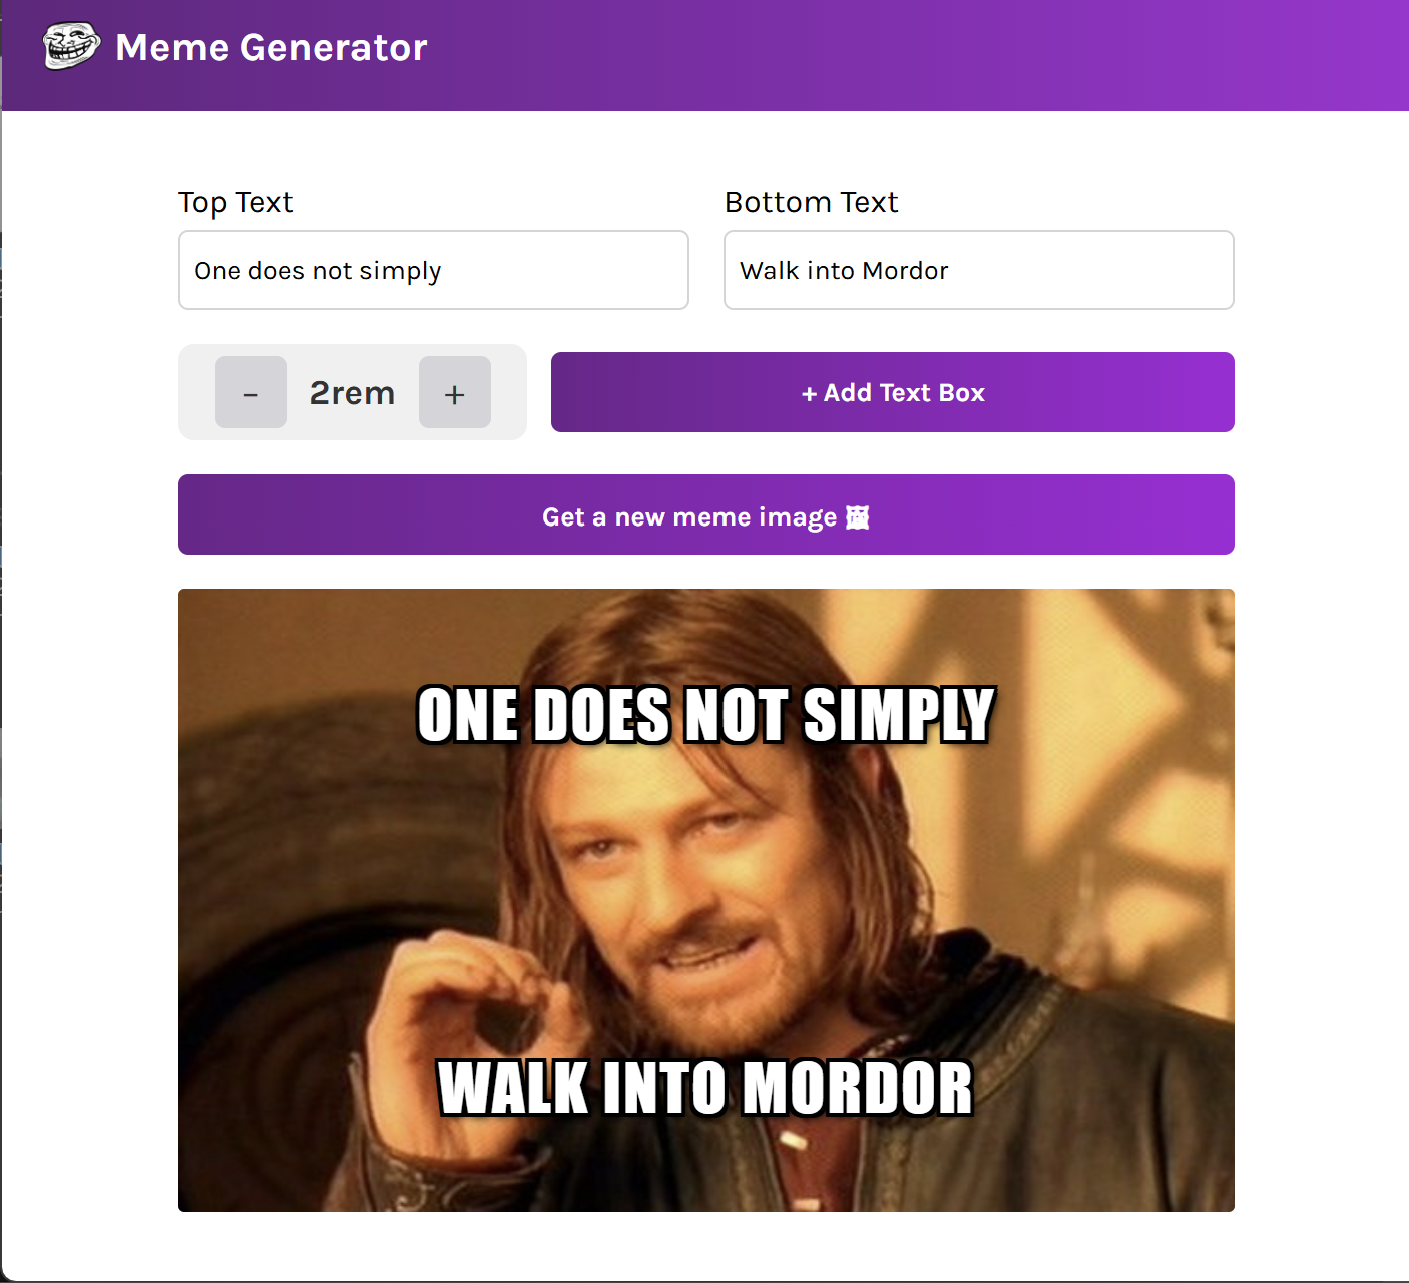
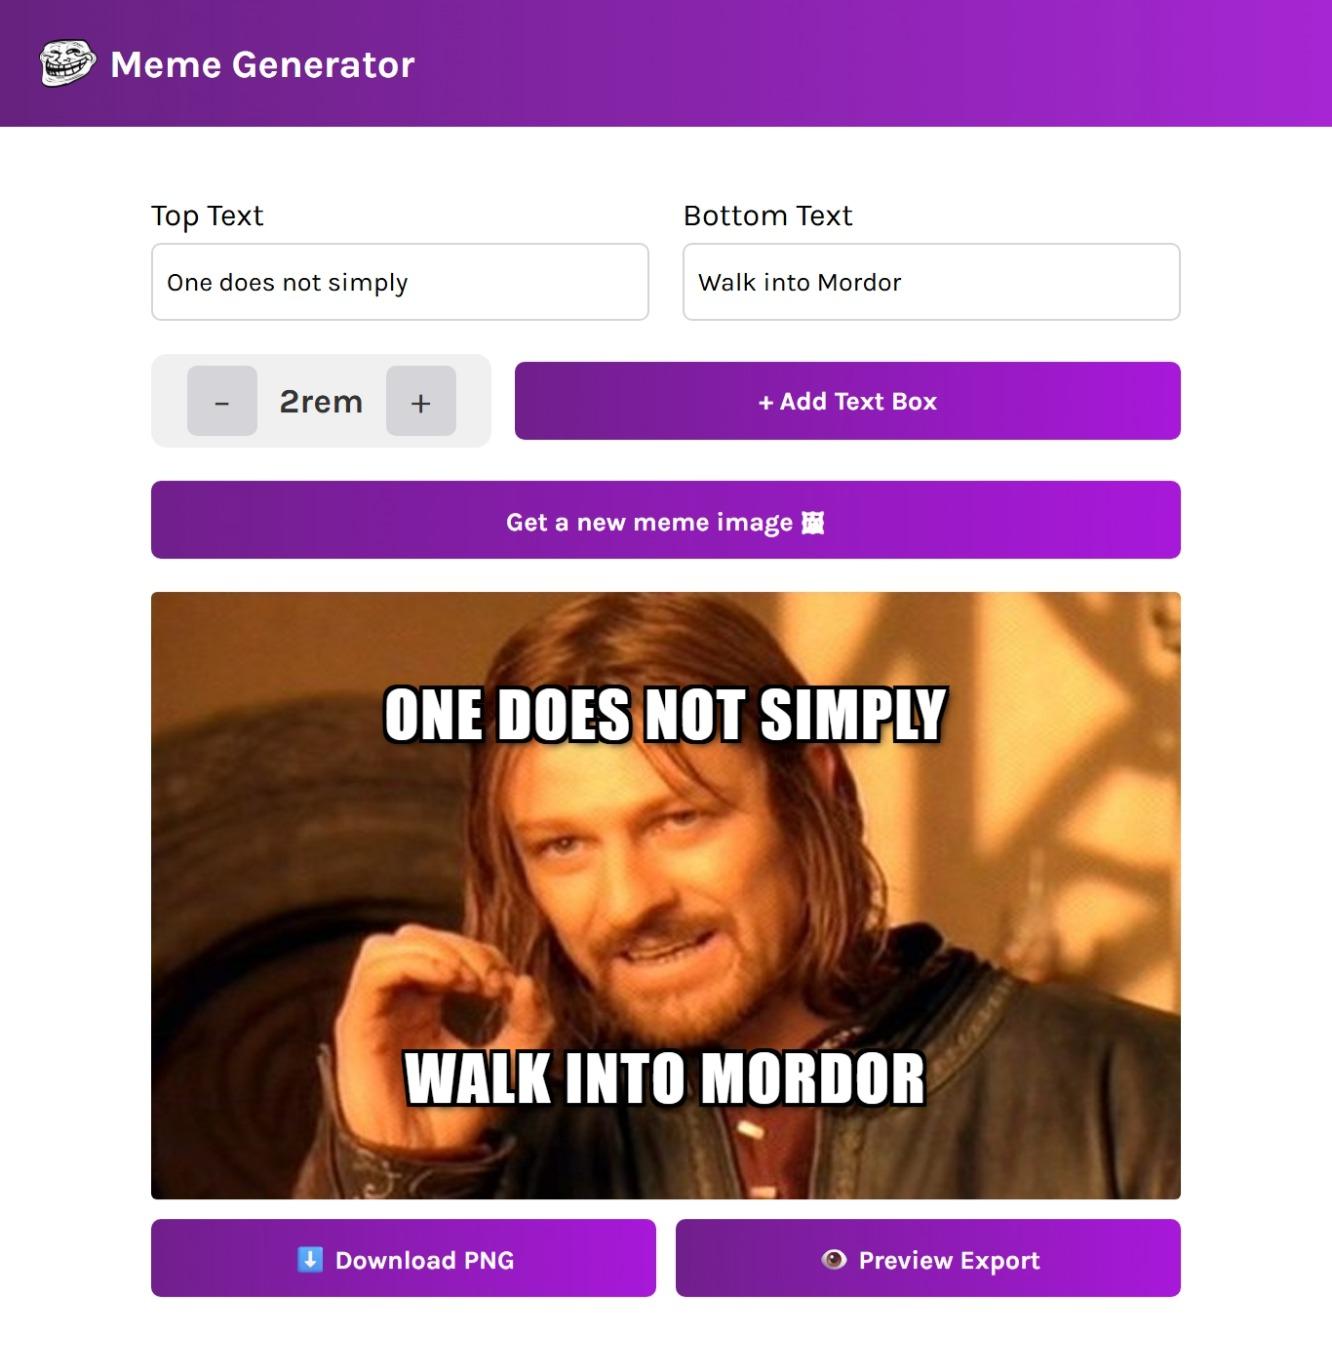
feat: add image export preview and update README documentation - Download: Save your created meme as a PNG image file - Preview Export: Open the exported meme in a new browser tab before downloading
Also updates README documentation to reflect these new features.

diff --git a/components/Main.jsx b/components/Main.jsx
@@ -232,6 +232,172 @@ export default function Main() {
             } 
         }
     }
+        
+    async function loadAndDrawImage(imageUrl, container, drawCallback) {
+        // 1. 下载图片
+        const response = await fetch(imageUrl)
+        const blob = await response.blob()
+        
+        // 2. 创建图片对象
+        const img = new Image()
+        const objectUrl = URL.createObjectURL(blob)
+        
+        return new Promise((resolve, reject) => {
+            img.onload = () => {
+                try {
+                    // 3. 获取容器尺寸
+                    const rect = container.getBoundingClientRect()
+                    
+                    // 4. 创建画布
+                    const canvas = document.createElement('canvas')
+                    const scaleFactor = 2
+                    canvas.width = rect.width * scaleFactor
+                    canvas.height = rect.height * scaleFactor
+                    
+                    const ctx = canvas.getContext('2d')
+                    ctx.scale(scaleFactor, scaleFactor)
+                    
+                    // 5. 绘制图片
+                    ctx.drawImage(img, 0, 0, rect.width, rect.height)
+                    
+                    // 6. 绘制文字
+                    drawTexts(ctx, rect)
+                    
+                    // 7. 清理临时链接
+                    URL.revokeObjectURL(objectUrl)
+                    
+                    // 8. 执行回调，传入画布
+                    resolve({ canvas, ctx, rect })
+                } catch (error) {
+                    reject(error)
+                }
+            }
+            
+            img.onerror = () => {
+                URL.revokeObjectURL(objectUrl)
+                reject(new Error('Failed to load image'))
+            }
+            
+            img.src = objectUrl
+        })
+    }
+
+    function downloadCanvas(canvas, filename = 'image.png') {
+        // Create a temporary anchor element
+        const link = document.createElement('a')
+        link.download = filename
+        
+        // Convert canvas to data URL
+        link.href = canvas.toDataURL('image/png')
+        
+        // Trigger download
+        document.body.appendChild(link)
+        link.click()
+        document.body.removeChild(link)
+    }
+    
+    // 导出为 DataURL（在新窗口预览）
+    async function exportAsDataURL() {
+        const memeElement = memeRef.current
+        if (!memeElement) return
+
+        try {
+            const { canvas } = await loadAndDrawImage(meme.imageUrl, memeElement)
+            
+            // 导出为 dataURL
+            const dataURL = canvas.toDataURL('image/png')
+            
+            // 在新窗口预览
+            const win = window.open()
+            if (win) {
+                win.document.write(`<img src="${dataURL}" alt="Exported Meme" style="max-width: 100%;" />`)
+                win.document.title = 'Exported Meme'
+            }
+        } catch (error) {
+            console.error('Export error:', error)
+            alert('Failed to preview meme. Please try again.')
+        }
+    }
+
+    // Export as  PNG（下载文件）
+    async function exportAsPNG() {
+        const memeElement = memeRef.current
+        if (!memeElement) return
+
+        try {
+            const { canvas } = await loadAndDrawImage(meme.imageUrl, memeElement)
+            
+            // 下载
+            downloadCanvas(canvas, 'meme.png')
+        } catch (error) {
+            console.error('Export error:', error)
+            alert('Failed to export meme. Please try again.')
+        }
+    }
+
+    function drawTexts(ctx, rect) {
+        function drawTextWithShadow(text, x, y, fontSize, color = 'white') {
+            ctx.textAlign = 'center';
+            ctx.textBaseline = 'middle';
+            ctx.font = `${fontSize * 16}px impact, sans-serif`;
+
+            // matches .draggable's letter-spacing: 1px (if supported by the browser)
+            if ('letterSpacing' in ctx) {
+                ctx.letterSpacing = '1px';
+            }
+
+            // Matches CSS text-shadow exactly, in the same order:
+            // 2px 2px 0, -2px -2px 0, 2px -2px 0, -2px 2px 0,
+            // 0 2px 0, 2px 0 0, 0 -2px 0, -2px 0 0, 2px 2px 5px
+            const shadows = [
+                [2, 2, 0], [-2, -2, 0], [2, -2, 0], [-2, 2, 0],
+                [0, 2, 0], [2, 0, 0], [0, -2, 0], [-2, 0, 0],
+                [2, 2, 5], // final blurred layer, drawn on top like in CSS
+            ];
+
+            ctx.shadowColor = 'black';
+            shadows.forEach(([offsetX, offsetY, blur]) => {
+                ctx.shadowOffsetX = offsetX;
+                ctx.shadowOffsetY = offsetY;
+                ctx.shadowBlur = blur;
+                ctx.fillStyle = 'black';
+                ctx.fillText(text, x, y);
+            });
+
+            // reset shadow state before drawing the actual fill text
+            ctx.shadowColor = 'transparent';
+            ctx.shadowOffsetX = 0;
+            ctx.shadowOffsetY = 0;
+            ctx.shadowBlur = 0;
+
+            ctx.fillStyle = color;
+            ctx.fillText(text, x, y);
+        }
+
+        drawTextWithShadow(
+            meme.topText.toUpperCase(),
+            (meme.topTextX / 100) * rect.width,
+            (meme.topTextY / 100) * rect.height,
+            meme.fontSize
+        );
+
+        drawTextWithShadow(
+            meme.bottomText.toUpperCase(),
+            (meme.bottomTextX / 100) * rect.width,
+            (meme.bottomTextY / 100) * rect.height,
+            meme.fontSize
+        );
+
+        customTexts.forEach(customText => {
+            drawTextWithShadow(
+                customText.text.toUpperCase(),
+                (customText.x / 100) * rect.width,
+                (customText.y / 100) * rect.height,
+                customText.fontSize || meme.fontSize
+            );
+        });
+    }
+
 
     if (error) return <main><p className="error">Failed to load memes: {error}</p></main>
     if (loading) return <main><p className="loading">Loading...</p></main>
@@ -382,6 +548,15 @@ export default function Main() {
                         {customText.text}
                     </span>
                 ))}
+            </div>
+            {/* Export Buttons */}
+            <div className="export-controls">
+                <button onClick={exportAsPNG} className="export-btn">
+                    ⬇ Download PNG
+                </button>
+                <button onClick={exportAsDataURL} className="export-btn">
+                    👁 Preview Export
+                </button>
             </div>
         </main>
     )

diff --git a/styles/index.css b/styles/index.css
@@ -231,3 +231,34 @@ main {
 .draggable:active {
     cursor: grabbing !important;
 }
+
+.export-controls {
+    display: flex;
+    gap: 10px;
+    margin-top: 10px;
+}
+
+
+.export-controls button{
+    background: linear-gradient(90.41deg, #711F8D 1.14%, #A818DA 100%);
+}
+
+.export-btn {
+    flex: 1;
+    min-height: 40px;
+    color: white;
+    border-radius: 5px;
+    border: none;
+    cursor: pointer;
+    min-height: 40px;
+    font-family: "Karla", sans-serif;
+    font-weight: bold;
+}
+
+.export-btn:hover {
+   background: linear-gradient(90.41deg, #5f1a78 1.14%, #8f14ba 100%);
+}
+
+.export-btn:last-child:hover {
+    background: linear-gradient(90.41deg, #5f1a78 1.14%, #8f14ba 100%);
+}

diff --git a/README.md b/README.md
@@ -2,13 +2,14 @@
 
 A fully interactive React-based meme generator that lets you create custom memes with unlimited text boxes, drag-and-drop positioning, and real-time editing.
 
+
 ## ▶ Live Demo
 
-[Try it live](https://gotham-citizen.github.io/Meme-Genrator/) — replace with the actual link once deployed
-
-<a href="https://gotham-citizen.github.io/Meme-Genrator/">
+<a href="https://gotham-citizen.github.io/Meme-Generator/">
   <img src="./media/live-demo.png" alt="Meme Generator Screenshot" width="600">
 </a>
+
+Click the image above or [here](https://gotham-citizen.github.io/Meme-Generator/) to try it!
 
 ## ✨ Features
 
@@ -19,6 +20,8 @@ A fully interactive React-based meme generator that lets you create custom memes
 - 📏 **Editable Font Size** - Increase/decrease font size with +/− buttons, or click directly on the font size display to type a custom value (clamped between 0.5rem and 5rem)
 - 🎯 **Smart Placeholder Behavior** - Text fields clear on focus if they still hold the default placeholder text, and restore the default if left empty on blur
 - 🔄 **Image Cycling** - Get a new meme image while preserving all your text, positions, and font sizes
+- 📥 **Export as PNG** - Download your created meme as a PNG image file
+- 👁 **Preview Export** - View your exported meme in a new browser window before downloading
 - 💅 **Authentic Meme Style** - Impact font, uppercase text, white fill with black outline/shadow for that classic meme look
 - ⚠ **Loading & Error States** - Friendly loading message while fetching templates and an error message if the API request fails
 
@@ -73,16 +76,20 @@ npm run lint
 ```
 meme-generator/
 ├── components/
-│   ├── Header.jsx       # App header
-│   └── Main.jsx          # Meme form, text inputs, drag-and-drop, and image display
+│   ├── Header.jsx       # App header with troll face logo
+│   └── Main.jsx          # Meme form, text inputs, drag-and-drop, export functionality
 ├── src/
 │   ├── App.jsx           # Root component
 │   └── index.jsx         # React entry point
 ├── styles/
 │   └── index.css         # Global styles (form, controls, draggable text, meme container)
-├── index.html             # HTML entry point
-├── vite.config.js         # Vite configuration
-└── eslint.config.js       # ESLint configuration
+├── media/
+│   ├── troll-face.png    # Header logo image
+│   └── live-demo.png     # Screenshot for live demo link
+├── index.html            # HTML entry point
+├── vite.config.js        # Vite configuration
+├── eslint.config.js      # ESLint configuration
+└── package.json          # Dependencies and scripts
 ```
 
 ## 🎯 How It Works
@@ -94,6 +101,7 @@ meme-generator/
 5. Use the **+ / −** buttons to scale all text at once, or click the font size value itself to type an exact number.
 6. Click **"Get a new meme image 🖼"** to swap in a different random template while keeping all your text, positions, and font sizes intact.
 7. Click the **"×"** on any custom text box to remove it.
+8. Click **⬇ Download PNG** to save your meme as an image file, or **👁 Preview Export** to open it in a new browser window first.
 
 ## 📝 Notes
 
